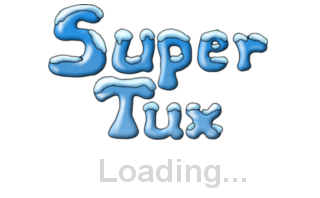
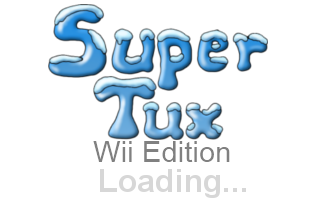
-Added USB support -Cut Classic and Nunchuk Controller Support -Reversed the 1 and 2 button -Fixed Video Display Issues -Cut the level editor (way to difficult to get working, just use it on another platform to make levels) -All crashing and load time issues should be fixed by compiling in the lates

Changed region(s): [[0.2812, 0.697, 0.7812, 1.0]]

diff --git a/src/setup.cpp b/src/setup.cpp
@@ -67,6 +67,9 @@
 #define SCREEN_W 640
 #define SCREEN_H 480
 
+/* Stores wether we're loading from and saving to SD or USB (Wii Only) */
+int selecteddevice;
+
 /* Local function prototypes: */
 
 void seticon(void);
@@ -307,17 +310,54 @@ void free_strings(char **strings, int num)
 void st_directory_setup(void)
 {
 
+  bool deviceselection = false;
+  
+  FILE *fp = NULL;
+  fp = fopen("sd:/apps/supertux/data/supertux.strf", "rb");
+  
+  if(fp){
+  
+  deviceselection = true;
   char home[] = {"sd:/apps/supertux"};
+  datadir = "sd:/apps/supertux/data";
   char str[1024];
-
   st_dir = (char *) malloc(255);
-
   strcpy(st_dir, home);
-
   st_save_dir = (char *) malloc(255);
-
   strcpy(st_save_dir,st_dir);
   strcat(st_save_dir,"/save");
+  selecteddevice = 1;
+  }
+  
+  fclose(fp);
+  
+  if(!deviceselection){
+  
+  fp = fopen("usb:/apps/supertux/data/supertux.strf", "rb");
+  
+  if(fp){
+  
+  deviceselection = true;
+  char home[] = {"usb:/apps/supertux"};
+  datadir = "usb:/apps/supertux/data";
+  char str[1024];
+  st_dir = (char *) malloc(255);
+  strcpy(st_dir, home);
+  st_save_dir = (char *) malloc(255);
+  strcpy(st_save_dir,st_dir);
+  strcat(st_save_dir,"/save");
+  selecteddevice = 2;
+  }
+  }
+  
+  fclose(fp);
+  
+  if(!deviceselection){
+  exit(0);
+  }
+
+  //char home[] = {"sd:/apps/supertux"};
+  
 
   /* Create them. In the case they exist they won't destroy anything. */
  // mkdir(st_dir, 0755);
@@ -328,7 +368,7 @@ void st_directory_setup(void)
 
   // User has not that a datadir, so we try some magic
  // if (datadir.empty())
-  datadir = "sd:/apps/supertux/data";
+  //datadir = "sd:/apps/supertux/data";
 }
 #else
 
@@ -369,9 +409,9 @@ void st_directory_setup(void)
   mkdir(str, 0755);
 
   // User has not that a datadir, so we try some magic
+#ifndef WIN32
   if (datadir.empty())
     {
-#ifndef WIN32
       // Detect datadir
       char exe_file[PATH_MAX];
       if (readlink("/proc/self/exe", exe_file, PATH_MAX) < 0)
@@ -420,7 +460,7 @@ void st_menu(void)
   main_menu->additem(MN_GOTO, "Start Game",0,load_game_menu, MNID_STARTGAME);
   main_menu->additem(MN_GOTO, "Bonus Levels",0,contrib_menu, MNID_CONTRIB);
   main_menu->additem(MN_GOTO, "Options",0,options_menu, MNID_OPTIONMENU);
-  main_menu->additem(MN_ACTION,"Level Editor",0,0, MNID_LEVELEDITOR);
+  //main_menu->additem(MN_ACTION,"Level Editor",0,0, MNID_LEVELEDITOR);
   main_menu->additem(MN_ACTION,"Credits",0,0, MNID_CREDITS);
   main_menu->additem(MN_ACTION,"Quit",0,0, MNID_QUITMAINMENU);
 
@@ -431,7 +471,7 @@ void st_menu(void)
 #else
   options_menu->additem(MN_DEACTIVE,"OpenGL (not supported)",use_gl, 0, MNID_OPENGL);
 #endif
-  options_menu->additem(MN_TOGGLE,"Fullscreen",use_fullscreen,0, MNID_FULLSCREEN);
+  //options_menu->additem(MN_TOGGLE,"Fullscreen",use_fullscreen,0, MNID_FULLSCREEN);
   if(audio_device)
     {
       options_menu->additem(MN_TOGGLE,"Sound     ", use_sound,0, MNID_SOUND);
@@ -531,7 +571,10 @@ bool process_load_game_menu()
   if(slot != -1 && load_game_menu->get_item_by_id(slot).kind == MN_ACTION)
     {
       char slotfile[1024];
-      snprintf(slotfile, 1024, "%s/slot%d.stsg", st_save_dir, slot);
+	  if(selecteddevice == 1)
+      snprintf(slotfile, 1024, "%s/slot%d.stsg", "sd:/apps/supertux/save", slot);
+	  if(selecteddevice == 2)
+	  snprintf(slotfile, 1024, "%s/slot%d.stsg", "usb:/apps/supertux/save", slot);
 
      // if (access(slotfile, F_OK) != 0)
      //   {
@@ -705,7 +748,7 @@ void st_video_setup_sdl(void)
 
   if (use_fullscreen)
     {
-      screen = SDL_SetVideoMode(SCREEN_W, SCREEN_H, 0, SDL_FULLSCREEN ) ; /* | SDL_HWSURFACE); */
+      screen = SDL_SetVideoMode(SCREEN_W, SCREEN_H, 16, SDL_DOUBLEBUF ); /* | SDL_HWSURFACE); */
       if (screen == NULL)
         {
           fprintf(stderr,
@@ -718,7 +761,7 @@ void st_video_setup_sdl(void)
     }
   else
     {
-      screen = SDL_SetVideoMode(SCREEN_W, SCREEN_H, 0, SDL_HWSURFACE | SDL_DOUBLEBUF );
+      screen = SDL_SetVideoMode(SCREEN_W, SCREEN_H, 16, SDL_DOUBLEBUF );
 
       if (screen == NULL)
         {
@@ -1072,7 +1115,7 @@ void parseargs(int argc, char * argv[])
         }
       else if (strcmp(argv[i], "--help") == 0)
         {     /* Show help: */
-          puts("Super Tux " VERSION "\n"
+          puts("Super Tux Wii" VERSION "\n"
                "  Please see the file \"README.txt\" for more details.\n");
           printf("Usage: %s [OPTIONS] FILENAME\n\n", argv[0]);
           puts("Display Options:\n"

diff --git a/src/worldmap.cpp b/src/worldmap.cpp
@@ -621,13 +621,9 @@ WorldMap::get_input()
 	      break;
 
             case SDL_JOYBUTTONDOWN:
-              if (event.jbutton.button == 2 /* (1) */|| //joystick_keymap.b_button)
-                  event.jbutton.button == 7 /* (z) */ ||
-                  event.jbutton.button == 9 /* (cc a) */ )
-
+              if (event.jbutton.button == 3 /* (2) */)
                 enter_level = true;
-              else if (event.jbutton.button == 6 /* mote home */ ||//joystick_keymap.start_button)
-                       event.jbutton.button == 19 /* cc home */ )
+              else if (event.jbutton.button == 6 /* mote home */)
                 on_escape_press();
               break;
 
@@ -728,7 +724,7 @@ WorldMap::update(float delta)
           if (level->x == tux->get_tile_pos().x &&
               level->y == tux->get_tile_pos().y)
             {
-              std::cout << "Enter the current level: " << level->name << std::endl;;
+              //std::cout << "Enter the current level: " << level->name << std::endl;;
               GameSession session(datadir +  "/levels/" + level->name,
                                   1, ST_GL_LOAD_LEVEL_FILE);
 
@@ -768,7 +764,7 @@ WorldMap::update(float delta)
                             //tux->update(delta);
                           }
 
-                        std::cout << "Walk to dir: " << dir << std::endl;
+                        //std::cout << "Walk to dir: " << dir << std::endl;
                       }
 
                     if (!level->extro_filename.empty())
@@ -922,24 +918,24 @@ WorldMap::draw_status()
 {
   char str[80];
   sprintf(str, "%d", player_status.score);
-  white_text->draw("SCORE", 0, 0);
-  gold_text->draw(str, 96, 0);
+  white_text->draw("SCORE", 20, 40);
+  gold_text->draw(str, 116, 40);
 
   sprintf(str, "%d", player_status.distros);
-  white_text->draw_align("COINS", 320-64, 0,  A_LEFT, A_TOP);
-  gold_text->draw_align(str, 320+64, 0, A_RIGHT, A_TOP);
+  white_text->draw_align("COINS", 320-64, 40,  A_LEFT, A_TOP);
+  gold_text->draw_align(str, 320+64, 40, A_RIGHT, A_TOP);
 
-  white_text->draw("LIVES", 480, 0);
+  white_text->draw("LIVES", 480, 40);
   if (player_status.lives >= 5)
     {
       sprintf(str, "%dx", player_status.lives);
-      gold_text->draw_align(str, 617, 0, A_RIGHT, A_TOP);
-      tux_life->draw(565+(18*3), 0);
+      gold_text->draw_align(str, 617, 40, A_RIGHT, A_TOP);
+      tux_life->draw(565+(18*3), 40);
     }
   else
     {
       for(int i= 0; i < player_status.lives; ++i)
-        tux_life->draw(565+(18*i),0);
+        tux_life->draw(565+(18*i),40);
     }
 
   if (!tux->is_moving())
@@ -1031,7 +1027,7 @@ WorldMap::display()
 void
 WorldMap::savegame(const std::string& filename)
 {
-  std::cout << "savegame: " << filename << std::endl;
+  //std::cout << "savegame: " << filename << std::endl;
   std::ofstream out(filename.c_str());
 
   int nb_solved_levels = 0;
@@ -1068,7 +1064,7 @@ WorldMap::savegame(const std::string& filename)
 void
 WorldMap::loadgame(const std::string& filename)
 {
-  std::cout << "loadgame: " << filename << std::endl;
+  //std::cout << "loadgame: " << filename << std::endl;
   savegame_file = filename;
 
 //  if (access(filename.c_str(), F_OK) != 0)
@@ -1077,7 +1073,7 @@ WorldMap::loadgame(const std::string& filename)
   lisp_object_t* savegame = lisp_read_from_file(filename);
   if (!savegame)
     {
-      std::cout << "WorldMap:loadgame: File not found: " << filename << std::endl;
+      //std::cout << "WorldMap:loadgame: File not found: " << filename << std::endl;
       return;
     }
 

diff --git a/src/gameloop.cpp b/src/gameloop.cpp
@@ -440,22 +440,17 @@ GameSession::process_events()
                   break;
 
                 case SDL_JOYBUTTONDOWN:
-                  if (event.jbutton.button == 2 /* (1) */|| //joystick_keymap.b_button)
-                  event.jbutton.button == 7 /* (z) */ ||
-                  event.jbutton.button == 9 /* (cc a) */ )
+                  if (event.jbutton.button == 3 /* (1) */)
                     tux.input.up = DOWN;
-                  else if (event.jbutton.button == 3 /* (2) */ || //joystick_keymap.b_button)
-                           event.jbutton.button == 8 /* (c) */ ||
-                           event.jbutton.button == 10 /* (cc b) */ )
+                  else if (event.jbutton.button == 2 /* (2) */)
                     tux.input.fire = DOWN;
-                  else if (event.jbutton.button == 6 /*mote home */ || //joystick_keymap.start_button)
-                           event.jbutton.button == 19 /* cc home */ )
+                  else if (event.jbutton.button == 6 /*mote home */)
                     on_escape_press();
                   break;
                 case SDL_JOYBUTTONUP:
-                  if (event.jbutton.button == 2)//joystick_keymap.a_button)
+                  if (event.jbutton.button == 3)//joystick_keymap.a_button)
                     tux.input.up = UP;
-                  else if (event.jbutton.button == 3)//joystick_keymap.b_button)
+                  else if (event.jbutton.button == 2)//joystick_keymap.b_button)
                     tux.input.fire = UP;
                   break;
 
@@ -716,8 +711,8 @@ GameSession::drawstatus()
   char str[60];
 
   sprintf(str, "%d", player_status.score);
-  white_text->draw("SCORE", 0, 0, 1);
-  gold_text->draw(str, 96, 0, 1);
+  white_text->draw("SCORE", 20, 40, 1);
+  gold_text->draw(str, 116, 40, 1);
 
   if(st_gl_mode == ST_GL_TEST)
     {
@@ -725,28 +720,28 @@ GameSession::drawstatus()
     }
 
   if(!time_left.check()) {
-    white_text->draw("TIME'S UP", 224, 0, 1);
+    white_text->draw("TIME'S UP", 320-42, 40, 1);
   } else if (time_left.get_left() > TIME_WARNING || (global_frame_counter % 10) < 5) {
     sprintf(str, "%d", time_left.get_left() / 1000 );
-    white_text->draw("TIME", 224, 0, 1);
-    gold_text->draw(str, 304, 0, 1);
+    white_text->draw("TIME", 320-42, 40, 1);
+    gold_text->draw(str, 320+42, 40, 1);
   }
 
   sprintf(str, "%d", player_status.distros);
-  white_text->draw("COINS", screen->h, 0, 1);
-  gold_text->draw(str, 608, 0, 1);
+  white_text->draw("COINS", 480, 40, 1);
+  gold_text->draw(str, 575, 40, 1);
 
-  white_text->draw("LIVES", 480, 20);
+  white_text->draw("LIVES", 480, 60);
   if (player_status.lives >= 5)
     {
       sprintf(str, "%dx", player_status.lives);
-      gold_text->draw_align(str, 617, 20, A_RIGHT, A_TOP);
-      tux_life->draw(565+(18*3), 20);
+      gold_text->draw_align(str, 617, 60, A_RIGHT, A_TOP);
+      tux_life->draw(565+(18*3), 60);
     }
   else
     {
       for(int i= 0; i < player_status.lives; ++i)
-        tux_life->draw(565+(18*i),20);
+        tux_life->draw(565+(18*i),60);
     }
 
   if(show_fps)

diff --git a/src/title.cpp b/src/title.cpp
@@ -308,7 +308,7 @@ void title(void)
                              "This game comes with ABSOLUTELY NO WARRANTY. This is free software, and you\n"
                              "are welcome to redistribute it under certain conditions; see the file COPYING\n"
                              "for details.\n",
-                             0, 420, 0);
+                             0, 400, 0);
 
       /* Don't draw menu, if quit is true */
       Menu* menu = Menu::current();
